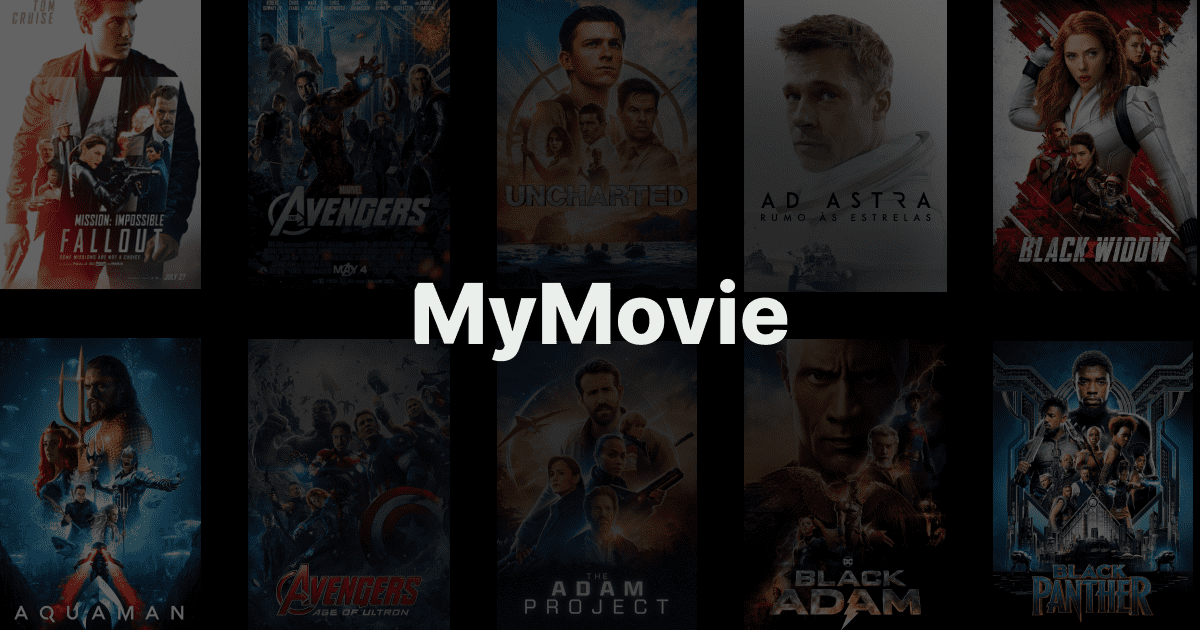
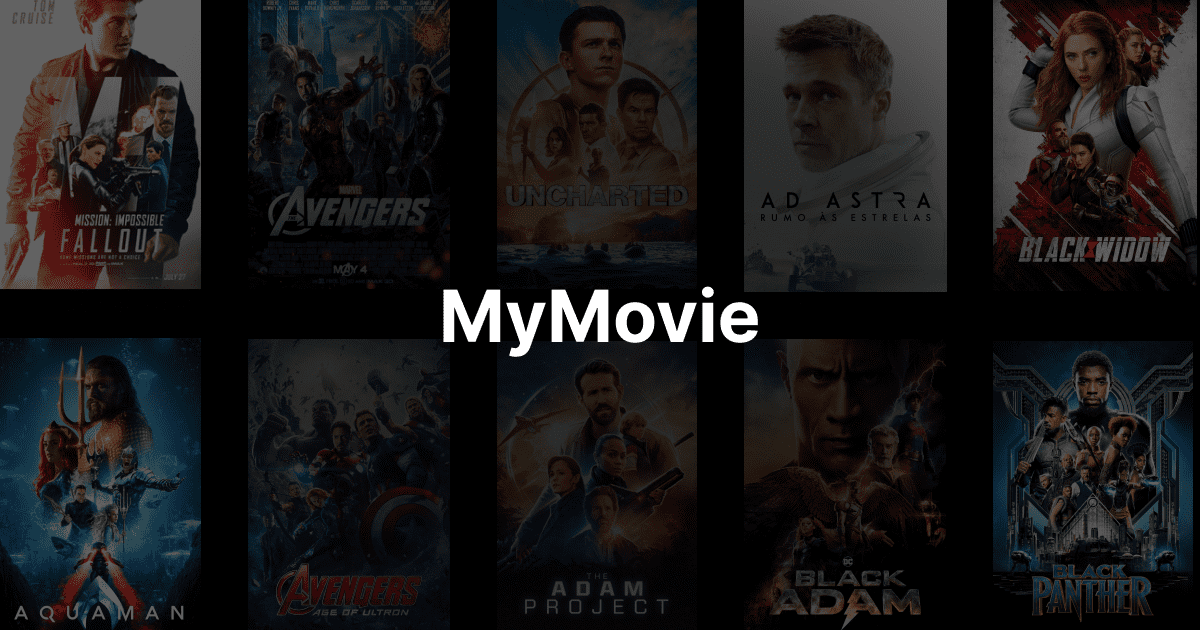
update

diff --git a/pages/api/og.js b/pages/api/og.js
@@ -48,7 +48,7 @@ export default async function handler(req) {
 
           <h1
             style={{
-              fontSize: 82,
+              fontSize: 64,
               margin: '0 0 40px -2px',
               lineHeight: 1.1,
               textShadow: '0 2px 30px #000',
